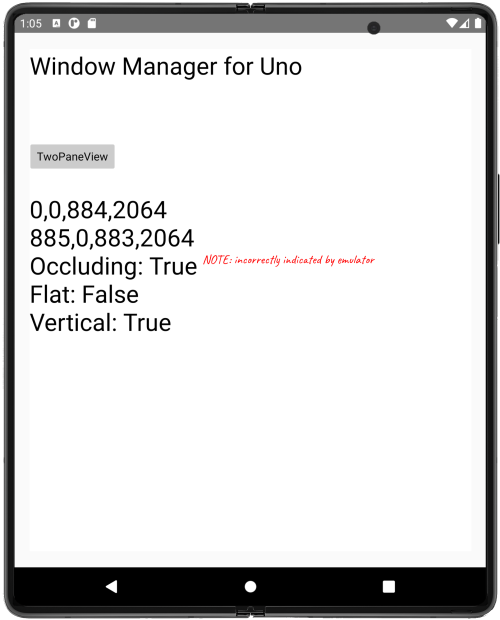
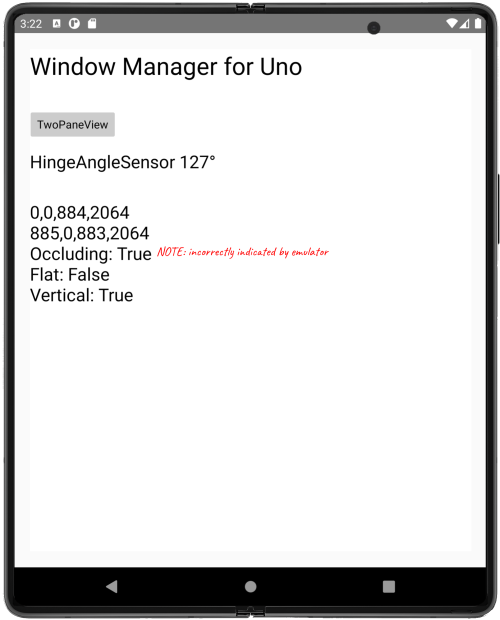
add generic INativeHingeAngleSensor implementation

diff --git a/WindowManager/WindowManager/WindowManager.Shared/MainPage.xaml b/WindowManager/WindowManager/WindowManager.Shared/MainPage.xaml
@@ -12,15 +12,19 @@
         <Grid.RowDefinitions>
             <RowDefinition Height="1*" />
             <RowDefinition Height="1*" />
-            <RowDefinition Height="5*" />
+            <RowDefinition Height="1*" />
+            <RowDefinition Height="7*" />
         </Grid.RowDefinitions>
 		<TextBlock Grid.Row="0"
                    Text="Window Manager for Uno" 
                    FontSize="30" />
         <Button Grid.Row="1"
                 Click="TwoPaneView_Click">TwoPaneView</Button>
-        <TextBlock x:Name="text" Grid.Row="2"
+        <TextBlock x:Name="hingeSensorStatus" Grid.Row="2"
+                   Text="0" 
+                   FontSize="22" />
+        <TextBlock x:Name="text" Grid.Row="3"
                    Text="Single screen (not spanned)" 
-                   FontSize="30" />
+                   FontSize="22" />
     </Grid>
 </Page>

diff --git a/WindowManager/WindowManager/WindowManager.Droid/FoldableHingeAngleSensor.cs b/WindowManager/WindowManager/WindowManager.Droid/FoldableHingeAngleSensor.cs
@@ -1,0 +1,134 @@
+using Android.App;
+using Android.Content;
+using Android.OS;
+using Android.Hardware;
+using Android.Runtime;
+using Android.Views;
+using Android.Widget;
+using System;
+using System.Collections.Generic;
+using System.Linq;
+using System.Text;
+using Uno.Devices.Sensors;
+using Uno.Devices.Sensors.Helpers;
+using Windows.Devices.Sensors;
+using Uno.UI;
+
+namespace WindowManager.Droid
+{
+	/// <summary>
+	/// Uses sensor manager to listen for hinge or fold angle changes
+	/// </summary>
+	/// <remarks>
+	/// Some code from 
+	/// https://github.com/xamarin/XamarinComponents/blob/main/Android/SurfaceDuo/source/SurfaceDuo/Additions/HingeSensor.cs
+	/// 
+	/// Choosing the sensor by "name contains 'hinge'" is a little rough - 
+	/// Android 30 and higher introduces a hinge sensor constant `android.sensor.hinge_angle`
+	/// https://developer.android.com/reference/android/hardware/Sensor#STRING_TYPE_HINGE_ANGLE
+	/// </remarks>
+	public class FoldableHingeAngleSensor : INativeHingeAngleSensor
+    {
+		//const string HINGE_SENSOR_TYPE = "microsoft.sensor.hinge_angle"; // Surface Duo specific
+		//const string HINGE_SENSOR_TYPE = "android.sensor.hinge_angle"; // API 30 - future use
+		const string HINGE_SENSOR_NAME = "hinge"; // works on multiple OEM devices
+
+		SensorManager _sensorManager;
+		Sensor _hingeSensor;
+		HingeSensorEventListener _sensorListener;
+
+		private EventHandler<NativeHingeAngleReading> _readingChanged;
+
+		public bool DeviceHasHinge { 
+			get {
+				return _hingeSensor != null;
+			}
+		}
+
+		public FoldableHingeAngleSensor(object owner)
+		{
+			if (!(ContextHelper.Current is Activity currentActivity))
+			{
+				throw new InvalidOperationException("FoldableHingeAngleSensor must be initialized on the UI Thread");
+			}
+
+			_sensorManager = SensorManager.FromContext(currentActivity);
+
+			var sensors = _sensorManager.GetSensorList(Android.Hardware.SensorType.All);
+
+			//foreach (var sensor in sensors) {
+			//    Android.Util.Log.Info("JWM", "Sensor: " + sensor.Name + "     " + sensor.Type);
+			//}
+
+			_hingeSensor = sensors.FirstOrDefault(s => s.Name.Contains(HINGE_SENSOR_NAME, StringComparison.OrdinalIgnoreCase)); // NAME - generic foldable device/s
+			//_hingeSensor = sensors.FirstOrDefault(s => s.StringType.Equals(HINGE_SENSOR_TYPE, StringComparison.OrdinalIgnoreCase)); // TYPE - Surface Duo specific
+		}
+
+		public event EventHandler<NativeHingeAngleReading> ReadingChanged
+		{
+			add
+			{
+				var isFirstSubscriber = _readingChanged == null;
+				_readingChanged += value;
+				if (isFirstSubscriber)
+				{
+					StartListening();
+				}
+			}
+			remove
+			{
+				_readingChanged -= value;
+				if (_readingChanged == null)
+				{
+					StopListening();
+				}
+			}
+		}
+
+		public void StartListening()
+		{
+			if (_sensorManager != null && _hingeSensor != null)
+			{
+				if (_sensorListener == null)
+				{
+					_sensorListener = new HingeSensorEventListener
+					{
+						SensorChangedHandler = se =>
+						{
+							if (se.Sensor == _hingeSensor)
+								_readingChanged?.Invoke(_hingeSensor,
+									new NativeHingeAngleReading(se.Values[0], TimestampToDateTimeOffset(se.Timestamp)));
+						}
+					};
+				}
+
+				_sensorManager.RegisterListener(_sensorListener, _hingeSensor, SensorDelay.Normal);
+			}
+		}
+
+		public void StopListening()
+		{
+			if (_sensorManager != null && _hingeSensor != null)
+				_sensorManager.UnregisterListener(_sensorListener, _hingeSensor);
+		}
+
+        class HingeSensorEventListener : Java.Lang.Object, ISensorEventListener
+        {
+            public Action<SensorEvent> SensorChangedHandler { get; set; }
+            public Action<Sensor, SensorStatus> AccuracyChangedHandler { get; set; }
+
+            public void OnAccuracyChanged(Sensor sensor, [GeneratedEnum] SensorStatus accuracy)
+                => AccuracyChangedHandler?.Invoke(sensor, accuracy);
+
+            public void OnSensorChanged(SensorEvent e)
+                => SensorChangedHandler?.Invoke(e);
+        }
+
+        static DateTimeOffset TimestampToDateTimeOffset(long timestamp)
+		{
+			return DateTimeOffset.Now
+				.AddMilliseconds(-SystemClock.ElapsedRealtime())
+				.AddMilliseconds(timestamp / 1000000.0);
+		}
+	}
+}

diff --git a/WindowManager/WindowManager/WindowManager.Shared/MainPage.xaml.cs b/WindowManager/WindowManager/WindowManager.Shared/MainPage.xaml.cs
@@ -4,6 +4,8 @@ using System.IO;
 using System.Linq;
 using System.Runtime.InteropServices.WindowsRuntime;
 using Uno.Foundation.Extensibility;
+using System.Threading.Tasks;
+using Windows.Devices.Sensors;
 using Windows.Foundation;
 using Windows.Foundation.Collections;
 using Windows.UI.ViewManagement;
@@ -14,6 +16,7 @@ using Windows.UI.Xaml.Data;
 using Windows.UI.Xaml.Input;
 using Windows.UI.Xaml.Media;
 using Windows.UI.Xaml.Navigation;
+using Windows.UI.Core;
 
 // The Blank Page item template is documented at http://go.microsoft.com/fwlink/?LinkId=402352&clcid=0x409
 
@@ -27,12 +30,45 @@ namespace WindowManager
         INativeFoldableProvider _foldable;
         bool isFoldable = false;
 
+        private HingeAngleSensor _hinge;
+        private bool _readingChangedAttached;
+        private double _angle;
+        private string _timestamp;
+
         public MainPage()
         {
             this.InitializeComponent();
 
-            Loaded += (snd, e) => RecalculateRects();
+            Loaded += PageLoaded;
         }
+
+        async void PageLoaded(object sender, RoutedEventArgs e)
+        {
+            _hinge = await HingeAngleSensor.GetDefaultAsync();
+            if (_hinge != null)
+            {
+                hingeSensorStatus.Text = "HingeAngleSensor created";
+                _hinge.ReadingChanged += HingeAngleSensor_ReadingChanged;
+            }
+            else
+            {
+                hingeSensorStatus.Text = "HingeAngleSensor not available on this device";
+            }
+ 
+            RecalculateRects();
+        }
+
+        async void HingeAngleSensor_ReadingChanged(HingeAngleSensor sender, HingeAngleSensorReadingChangedEventArgs args)
+        {
+            await Dispatcher.RunAsync(CoreDispatcherPriority.Normal, () =>
+            {
+                _angle = args.Reading.AngleInDegrees;
+                _timestamp = args.Reading.Timestamp.ToString("R");
+
+                hingeSensorStatus.Text = "HingeAngleSensor " + Math.Round(_angle,0) + "°";
+            });
+        }
+
         protected override void OnSizeChanged(int w, int h, int oldw, int oldh)
         {
             base.OnSizeChanged(w, h, oldw, oldh);

diff --git a/WindowManager/WindowManager/WindowManager.Shared/App.xaml.cs b/WindowManager/WindowManager/WindowManager.Shared/App.xaml.cs
@@ -41,8 +41,10 @@ namespace WindowManager
             this.InitializeComponent();
 #if __ANDROID__
             // HACK: need to get the DI working from the attribute in AssemblyInfo.cs
+            // Might need to move all this code to a project/NuGet? https://platform.uno/docs/articles/uno-development/api-extensions.html
             global::Uno.Foundation.Extensibility.ApiExtensibility.Register(typeof(global::Windows.UI.ViewManagement.IApplicationViewSpanningRects), o => new WindowManager.Droid.FoldableApplicationViewSpanningRects(o));
             global::Uno.Foundation.Extensibility.ApiExtensibility.Register(typeof(WindowManager.INativeFoldableProvider), o => new WindowManager.Droid.FoldableApplicationViewSpanningRects(o));
+            global::Uno.Foundation.Extensibility.ApiExtensibility.Register(typeof(global::Uno.Devices.Sensors.INativeHingeAngleSensor), o => new WindowManager.Droid.FoldableHingeAngleSensor(o));
 #endif
 
 #if HAS_UNO || NETFX_CORE

diff --git a/WindowManager/WindowManager/WindowManager.Droid/Properties/AssemblyInfo.cs b/WindowManager/WindowManager/WindowManager.Droid/Properties/AssemblyInfo.cs
@@ -44,3 +44,4 @@ using WindowManager;
 // (and not in the current application, as in this case)...
 [assembly: ApiExtension(typeof(IApplicationViewSpanningRects), typeof(FoldableApplicationViewSpanningRects))]
 [assembly: ApiExtension(typeof(INativeFoldableProvider), typeof(FoldableApplicationViewSpanningRects))]
+[assembly: ApiExtension(typeof(INativeHingeAngleSensor), typeof(FoldableHingeAngleSensor))]

diff --git a/WindowManager/README.md b/WindowManager/README.md
@@ -4,26 +4,30 @@
 
 Use [Xamarin.AndroidX.WindowJava](https://www.nuget.org/packages/Xamarin.AndroidX.Window.WindowJava) NuGet to test Jetpack Window Manager with Uno Platform Android apps.
 
+- Added a new interface `INativeFoldableProvider` to expose new data available from Window Manager's foldable feature class via `FoldableApplicationViewSpanningRects` implementation (data shown on the main sample page).
+- `FoldableApplicationViewSpanningRects` also implements existing interfaces `IApplicationViewSpanningRects` and `INativeDualScreenProvider`. The spanning rects get picked up by `TwoPaneView` which now works on other foldable devices.
+- Re-implemented `INativeHingeAngleSensor` in `FoldableHingeAngleSensor` with more generic sensor identifier, so it now works on other foldable devices too.
+
 ## Surface Duo
 
-Added a new interface `INativeFoldableProvider` to expose new data available from Window Manager's foldable feature class:
+Jetpack Window Manager `FoldingFeature` properties are surfaced and displayed, as well as the hinge angle:
 
 ![Surface Duo with Uno Platform and Jetpack Window Manager](Screenshots/surfaceduo-windowmanager-land.png)
 
-Replaced the implementation of `IApplicationViewSpanningRects` with one using Window Manager, and TwoPaneView seems to work^
+Replaced the implementation of `IApplicationViewSpanningRects` with one using Window Manager, and TwoPaneView seems to work:
 
-![Surface Duo with Uno Platform and TwoPaneView](Screenshots/surfaceduo-twopaneview-land.png)
+![Surface Duo with Uno Platform and TwoPaneView in dual-portrait](Screenshots/surfaceduo-twopaneview-land.png)
 
-![Surface Duo with Uno Platform and TwoPaneView](Screenshots/surfaceduo-twopaneview-port.png)
-
-_^ still some bugs to fix_
+![Surface Duo with Uno Platform and TwoPaneView in dual-landscape](Screenshots/surfaceduo-twopaneview-port.png)
 
 ## Galaxy Fold 2
 
+Jetpack Window Manager `FoldingFeature` properties are surfaced and displayed (note that the emulator incorrectly reports `IsOccluding` for this device type), as well as the hinge angle:
+
 ![Galaxy Fold 2 with Uno Platform and Jetpack Window Manager](Screenshots/galaxyfold-windowmanager-port.png)
 
-Replaced the implementation of `IApplicationViewSpanningRects` with one using Window Manager, and TwoPaneView seems to work^
+Replaced the implementation of `IApplicationViewSpanningRects` with one using Window Manager, and TwoPaneView seems to work. 
 
-![Galaxy Fold 2 with Uno Platform and TwoPaneView](Screenshots/galaxyfold-twopaneview-land.png)
+![Galaxy Fold 2 with Uno Platform and TwoPaneView in portrait](Screenshots/galaxyfold-twopaneview-port.png)
 
-![Galaxy Fold 2 with Uno Platform and TwoPaneView](Screenshots/galaxyfold-twopaneview-port.png)
+![Galaxy Fold 2 with Uno Platform and TwoPaneView in landscape](Screenshots/galaxyfold-twopaneview-land.png)
